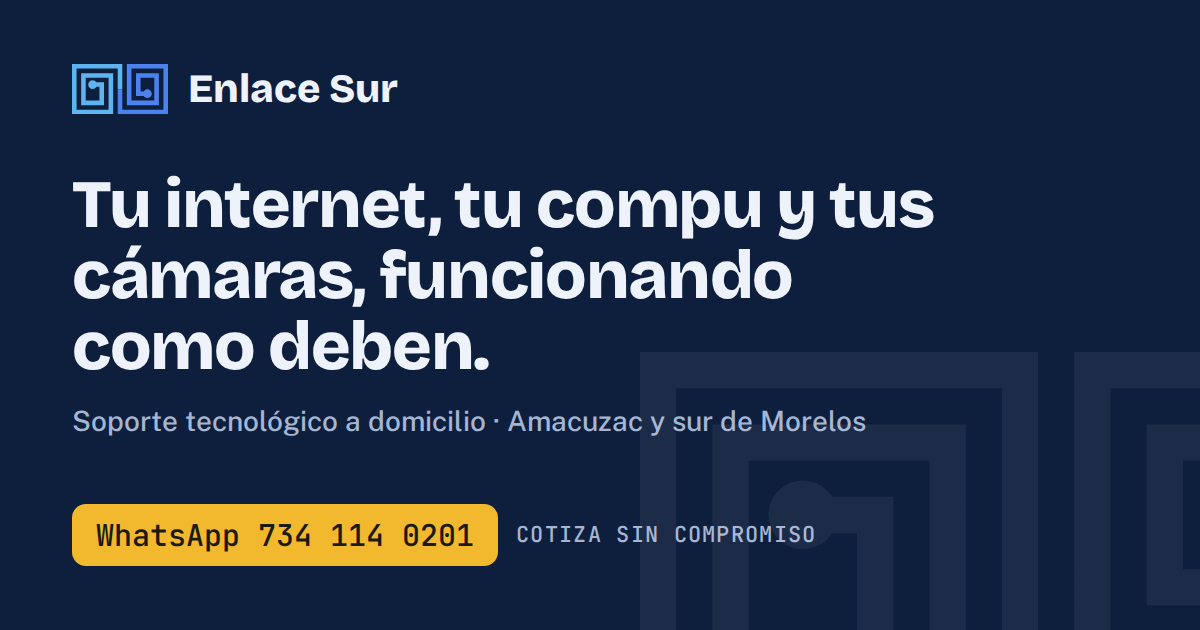
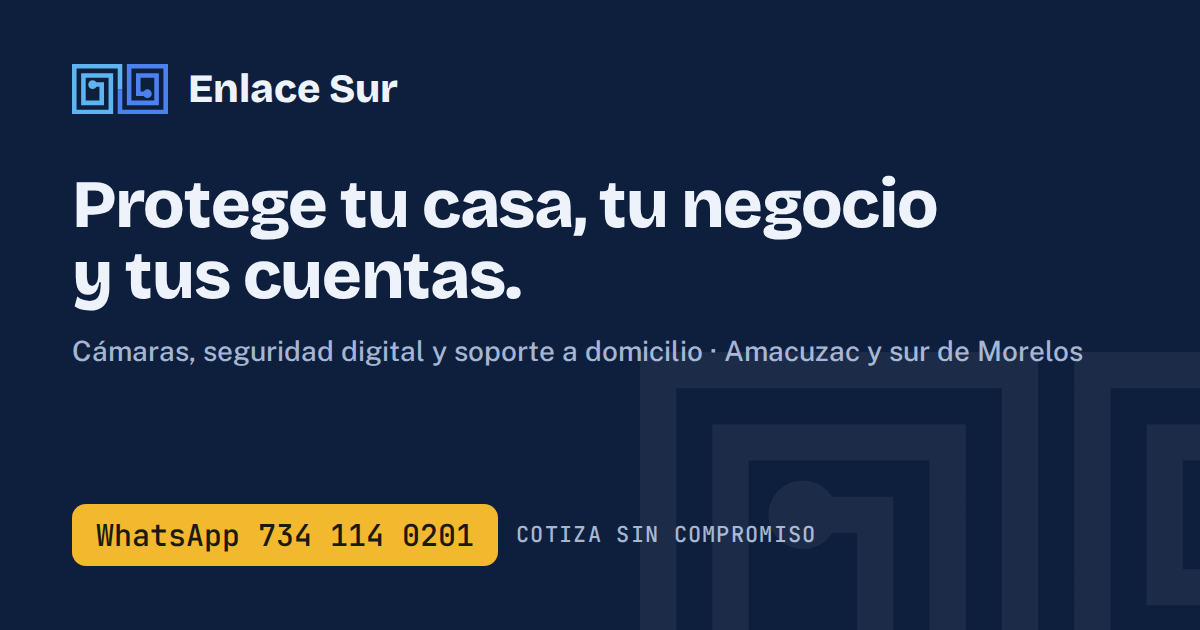
Add files via upload

Changed region(s): [[0.0617, 0.2714, 0.925, 0.6032], [0.0617, 0.6333, 0.74, 0.6937]]

diff --git a/index.html b/index.html
@@ -3,14 +3,14 @@
 <head>
 <meta charset="utf-8">
 <meta name="viewport" content="width=device-width, initial-scale=1, viewport-fit=cover">
-<title>Enlace Sur · Soporte tecnológico en Amacuzac</title>
-<meta name="description" content="Soporte tecnológico a domicilio en Amacuzac y el sur de Morelos: redes WiFi, computadoras, cámaras de seguridad y presencia digital para negocios.">
+<title>Enlace Sur · Seguridad y tecnología en Amacuzac</title>
+<meta name="description" content="Cámaras de seguridad, seguridad digital y soporte tecnológico a domicilio en Amacuzac y el sur de Morelos. Protege tu casa, tu negocio y tus cuentas.">
 <meta name="theme-color" content="#0E1F3D">
 <link rel="icon" href="favicon.svg" type="image/svg+xml">
 <link rel="apple-touch-icon" href="apple-touch-icon.png">
 <meta property="og:type" content="website">
-<meta property="og:title" content="Enlace Sur · Soporte tecnológico a domicilio">
-<meta property="og:description" content="WiFi, computadoras, cámaras y negocio digital en Amacuzac y el sur de Morelos. Cotiza sin compromiso por WhatsApp.">
+<meta property="og:title" content="Enlace Sur · Protege tu casa, tu negocio y tus cuentas">
+<meta property="og:description" content="Cámaras, seguridad digital y soporte tecnológico a domicilio en Amacuzac y el sur de Morelos. Cotiza sin compromiso por WhatsApp.">
 <meta property="og:image" content="https://abelprogram.github.io/enlace-sur/og.png">
 <meta property="og:url" content="https://abelprogram.github.io/enlace-sur/">
 <meta property="og:locale" content="es_MX">
@@ -122,6 +122,37 @@ section{padding-block:64px}
 .copy{font:500 13px/1 var(--body);background:transparent;color:var(--hero-ink);border:1px solid rgba(255,255,255,.3);border-radius:8px;padding:8px 12px;cursor:pointer}
 footer{padding-block:32px 48px;color:var(--muted);font-size:14px;display:flex;justify-content:space-between;gap:16px;flex-wrap:wrap}
 
+
+/* security checklist widget */
+.check{display:grid;grid-template-columns:1fr auto;gap:12px;align-items:center;padding:11px 0;border-top:1px solid rgba(255,255,255,.08);font-size:15px}
+.check:first-of-type{border-top:0}
+.st{font:500 12px/1 var(--mono);padding:6px 8px;border-radius:6px;white-space:nowrap}
+.st.bad{color:#F3A48F;background:rgba(224,122,95,.14)}
+.st.ok{color:#1B1A10;background:var(--signal)}
+.score{display:flex;align-items:baseline;gap:8px;margin-top:14px;padding-top:12px;border-top:1px solid rgba(255,255,255,.12)}
+.score b{font:800 28px/1 var(--display)}
+.score span{font-size:13px;color:var(--hero-muted)}
+/* services */
+.feat-grid{display:grid;grid-template-columns:repeat(2,1fr);gap:20px}
+.sub-grid{display:grid;grid-template-columns:repeat(3,1fr);gap:20px;margin-top:20px}
+.svc.feat{border-color:color-mix(in srgb,var(--accent) 35%,var(--line))}
+.svc .kicker{font:500 12px/1 var(--mono);letter-spacing:.06em;text-transform:uppercase;color:var(--accent)}
+.pkgs{display:grid;grid-template-columns:1fr 1fr;gap:10px;margin-top:6px}
+.pkg{background:var(--accent-soft);border-radius:10px;padding:12px}
+.pkg b{display:block;font-size:15px}
+.pkg span{font-size:13px;color:var(--muted)}
+.svc.small h3{font-size:18px}
+.svc.small p{font-size:15px}
+/* risks */
+.risks{display:grid;grid-template-columns:repeat(3,1fr);gap:20px}
+.risk{display:flex;flex-direction:column;gap:10px;padding-top:16px;border-top:2px solid var(--ink)}
+.risk h3{font-size:19px;font-weight:700}
+.risk p{color:var(--muted);font-size:15px}
+.risk .fix{color:var(--ink);font-size:15px;background:var(--accent-soft);border-radius:8px;padding:10px 12px}
+.risk .fix b{color:var(--accent)}
+.why{grid-template-columns:repeat(2,1fr)}
+@media (max-width:820px){.feat-grid,.sub-grid,.risks,.pkgs{grid-template-columns:1fr}.why{grid-template-columns:1fr}}
+
 @media (max-width:820px){
   .hero-grid,.cta{grid-template-columns:1fr}
   .services{grid-template-columns:1fr}
@@ -142,30 +173,28 @@ footer{padding-block:32px 48px;color:var(--muted);font-size:14px;display:flex;ju
         <svg viewBox="-10.5 -5.5 21 11" aria-hidden="true"><path d="M0 0 L0 -5 L-10 -5 L-10 5 L-2 5 L-2 -3 L-8 -3 L-8 3 L-4 3 L-4 -1 L-6 -1" style="stroke:var(--g1)" stroke-width="1.0" fill="none" stroke-linejoin="miter" stroke-linecap="butt"/><circle cx="-6" cy="-1" r="0.95" style="fill:var(--g1)"/><path d="M0 0 L0 5 L10 5 L10 -5 L2 -5 L2 3 L8 3 L8 -3 L4 -3 L4 1 L6 1" style="stroke:var(--g2)" stroke-width="1.0" fill="none" stroke-linejoin="miter" stroke-linecap="butt"/><circle cx="6" cy="1" r="0.95" style="fill:var(--g2)"/></svg>
         Enlace Sur
       </div>
-      <small>SOPORTE TECNOLÓGICO · AMACUZAC, MOR.</small>
+      <small>SEGURIDAD Y TECNOLOGÍA · AMACUZAC, MOR.</small>
     </div>
     <div class="hero-grid">
       <div>
         <p class="eyebrow">A domicilio · Casas y negocios</p>
-        <h1>Tu internet, tu compu y tus cámaras, funcionando como deben.</h1>
-        <p class="lead">Instalo y arreglo redes WiFi, computadoras y cámaras de seguridad en Amacuzac y el sur de Morelos. También ayudo a negocios a tener presencia digital. Te explico todo claro y sin tecnicismos.</p>
+        <h1>Protege tu casa, tu negocio y tus cuentas.</h1>
+        <p class="lead">Instalo cámaras de seguridad configuradas para que solo tú tengas acceso, y aseguro tu WhatsApp, tus contraseñas y tu red WiFi. También arreglo internet y computadoras. En Amacuzac y el sur de Morelos, con explicaciones claras y sin tecnicismos.</p>
         <div class="hero-actions">
           <a class="btn wa-link" href="#contacto"><svg viewBox="0 0 24 24" fill="currentColor" aria-hidden="true"><path d="M12 2a10 10 0 0 0-8.6 15.1L2 22l5-1.3A10 10 0 1 0 12 2Zm5.3 14.1c-.2.6-1.3 1.2-1.8 1.2-.5.1-1 .1-3.3-.8-2.8-1.1-4.5-3.9-4.7-4.1-.1-.2-1.1-1.5-1.1-2.9s.7-2 1-2.3c.2-.3.5-.3.7-.3h.5c.2 0 .4 0 .6.5l.9 2.1c.1.2.1.4 0 .6l-.4.6-.4.4c-.1.2-.3.3-.1.6.2.3.8 1.3 1.7 2.1 1.2 1 2.1 1.4 2.4 1.5.3.2.5.1.7-.1l.9-1.1c.2-.3.4-.2.7-.1l2 1c.3.1.5.2.5.3.1.2.1.7-.1 1.3Z"/></svg>Cotiza por WhatsApp</a>
           <span>Cotización sin compromiso</span>
         </div>
       </div>
-      <div class="meter" aria-label="Ejemplo de medición de señal WiFi por cuarto">
-        <h3><span>Señal WiFi por cuarto</span>
+      <div class="meter" aria-label="Ejemplo de chequeo de seguridad">
+        <h3><span>Chequeo de seguridad</span>
           <span class="tabs" role="group" aria-label="Comparar">
             <button type="button" id="t-antes" aria-pressed="true">Antes</button>
             <button type="button" id="t-despues" aria-pressed="false">Después</button>
           </span>
         </h3>
-        <div class="room"><span>Sala (módem)</span><span class="bars b4"><i></i><i></i><i></i><i></i></span><span class="dbm ok">−42 dBm</span></div>
-        <div class="room" data-before="b2|−71 dBm" data-after="b4|−52 dBm"><span>Recámara</span><span class="bars"><i></i><i></i><i></i><i></i></span><span class="dbm"></span></div>
-        <div class="room" data-before="b1|−84 dBm" data-after="b4|−58 dBm"><span>Cocina / fondo</span><span class="bars"><i></i><i></i><i></i><i></i></span><span class="dbm"></span></div>
-        <div class="room" data-before="b1|Sin señal" data-after="b4|−61 dBm"><span>Patio / local</span><span class="bars"><i></i><i></i><i></i><i></i></span><span class="dbm"></span></div>
-        <p class="note">Ejemplo ilustrativo: mido la señal en cada espacio antes y después de instalar.</p>
+        <div class="check" data-before="De fábrica" data-after="Cambiada"><span>Contraseña del módem</span><span class="st bad">De fábrica</span></div><div class="check" data-before="Contraseña genérica" data-after="Solo tú"><span>Acceso a tus cámaras</span><span class="st bad">Contraseña genérica</span></div><div class="check" data-before="Sin verificación en 2 pasos" data-after="Protegido"><span>WhatsApp</span><span class="st bad">Sin verificación en 2 pasos</span></div><div class="check" data-before="Clientes en tu red" data-after="Red separada"><span>WiFi del negocio</span><span class="st bad">Clientes en tu red</span></div><div class="check" data-before="Sin respaldo" data-after="Respaldo automático"><span>Fotos y documentos</span><span class="st bad">Sin respaldo</span></div>
+        <div class="score"><b id="score">0 de 5</b><span>puntos protegidos</span></div>
+        <p class="note">Ejemplo ilustrativo de lo que reviso en una casa o negocio típico.</p>
       </div>
     </div>
   </div>
@@ -178,43 +207,69 @@ footer{padding-block:32px 48px;color:var(--muted);font-size:14px;display:flex;ju
         <h2>Servicios</h2>
         <p>Cada trabajo empieza con un diagnóstico para saber qué necesitas de verdad, no qué venderte.</p>
       </div>
-      <div class="services">
-        <article class="svc">
+      <div class="feat-grid">
+        <article class="svc feat">
+          <div class="ic"><svg viewBox="0 0 24 24" fill="none" stroke="currentColor" stroke-width="2" stroke-linecap="round" stroke-linejoin="round"><path d="M3 7h13l4 3-4 3H3z"/><path d="M8 13v4H5"/><circle cx="7" cy="10" r="1.2" fill="currentColor"/></svg></div>
+          <span class="kicker">Seguridad física</span>
+          <h3>Cámaras de seguridad</h3>
+          <p>Ve tu casa o negocio desde el celular, estés donde estés. Las dejo protegidas para que nadie más pueda verlas.</p>
+          <ul><li>Instalación de cámaras WiFi</li><li>Acceso seguro desde tu celular</li><li>Grabación y alertas de movimiento</li><li>Revisión y protección de cámaras que ya tienes</li></ul>
+          <div class="pkgs">
+            <div class="pkg"><b>Casa vigilada</b><span>2 cámaras + configuración en tu celular</span></div>
+            <div class="pkg"><b>Negocio vigilado</b><span>3 a 4 cámaras + grabación + acceso para el encargado</span></div>
+          </div>
+        </article>
+        <article class="svc feat">
+          <div class="ic"><svg viewBox="0 0 24 24" fill="none" stroke="currentColor" stroke-width="2" stroke-linecap="round" stroke-linejoin="round"><path d="M12 3 4 6v6c0 4.5 3.4 8.3 8 9 4.6-.7 8-4.5 8-9V6z"/><path d="m9 12 2 2 4-4"/></svg></div>
+          <span class="kicker">Seguridad digital</span>
+          <h3>Chequeo de seguridad digital</h3>
+          <p>Una visita para cerrar las puertas que casi todos dejamos abiertas sin saberlo.</p>
+          <ul><li>WhatsApp con verificación en dos pasos</li><li>Contraseñas seguras en correo, Facebook y banco</li><li>Contraseña nueva en módem y cámaras</li><li>Control parental y respaldo de fotos</li></ul>
+          <div class="pkgs">
+            <div class="pkg"><b>¿Te hackearon una cuenta?</b><span>Te ayudo a recuperar WhatsApp, Facebook o correo</span></div>
+            <div class="pkg"><b>Para negocios</b><span>Red WiFi separada para clientes</span></div>
+          </div>
+        </article>
+      </div>
+      <div class="sub-grid">
+        <article class="svc small">
           <div class="ic"><svg viewBox="0 0 24 24" fill="none" stroke="currentColor" stroke-width="2" stroke-linecap="round"><path d="M2 9a15 15 0 0 1 20 0M5.5 12.5a10 10 0 0 1 13 0M9 16a5 5 0 0 1 6 0"/><circle cx="12" cy="19.5" r="1" fill="currentColor"/></svg></div>
           <h3>Redes e internet WiFi</h3>
-          <p>Para que el internet llegue a toda la casa o al negocio, no solo junto al módem.</p>
-          <ul><li>Instalación de repetidores y routers</li><li>Mejorar cobertura y velocidad</li><li>Cambiar nombre y contraseña del WiFi</li><li>Red separada para clientes del negocio</li></ul>
+          <p>Repetidores y routers para que la señal llegue a toda la casa o al negocio.</p>
         </article>
-        <article class="svc">
+        <article class="svc small">
           <div class="ic"><svg viewBox="0 0 24 24" fill="none" stroke="currentColor" stroke-width="2" stroke-linecap="round" stroke-linejoin="round"><rect x="3" y="4" width="18" height="12" rx="2"/><path d="M8 20h8M12 16v4"/></svg></div>
           <h3>Soporte de computadoras</h3>
-          <p>Cuando la compu está lenta, no prende bien o perdiste el acceso a algo.</p>
-          <ul><li>Limpieza, formateo e instalación de programas</li><li>Computadora lenta o con virus</li><li>Recuperar contraseñas y cuentas</li><li>Respaldo de fotos y documentos</li></ul>
+          <p>Lentitud, virus, formateo, programas y respaldo de tus archivos.</p>
         </article>
-        <article class="svc">
-          <div class="ic"><svg viewBox="0 0 24 24" fill="none" stroke="currentColor" stroke-width="2" stroke-linecap="round" stroke-linejoin="round"><path d="M3 7h13l4 3-4 3H3z"/><path d="M8 13v4H5"/><circle cx="7" cy="10" r="1.2" fill="currentColor"/></svg></div>
-          <h3>Cámaras de seguridad</h3>
-          <p>Ve tu casa o negocio desde el celular, estés donde estés.</p>
-          <ul><li>Instalación de cámaras WiFi</li><li>Configuración en tu celular</li><li>Grabación y alertas de movimiento</li><li>Revisión de cámaras que ya tienes</li></ul>
-        </article>
-        <article class="svc">
+        <article class="svc small">
           <div class="ic"><svg viewBox="0 0 24 24" fill="none" stroke="currentColor" stroke-width="2" stroke-linecap="round" stroke-linejoin="round"><path d="M12 21s-7-6.2-7-11a7 7 0 0 1 14 0c0 4.8-7 11-7 11z"/><circle cx="12" cy="10" r="2.5"/></svg></div>
           <h3>Tu negocio en digital</h3>
-          <p>Para que te encuentren, te escriban y te sea más fácil atender.</p>
-          <ul><li>Aparecer en Google Maps</li><li>WhatsApp Business con catálogo y respuestas</li><li>Página web sencilla para tu negocio</li><li>Automatizar tareas repetitivas</li></ul>
+          <p>Google Maps, WhatsApp Business con catálogo y página web sencilla.</p>
         </article>
       </div>
     </div>
   </section>
 
-  <section style="padding-top:0">
+  <section class="band">
+    <div class="wrap">
+      <div class="sec-head"><h2>¿Sabías que…?</h2><p>Tres riesgos comunes en casas y negocios, y cómo se evitan.</p></div>
+      <div class="risks">
+        <div class="risk"><h3>Muchas cámaras y módems vienen con contraseña de fábrica</h3><p>Esas contraseñas suelen ser genéricas y fáciles de encontrar en internet. Si no se cambian, alguien más podría entrar a ver lo que tú ves.</p><p class="fix"><b>Se evita:</b> cambiando las contraseñas al instalar y actualizando el equipo.</p></div>
+        <div class="risk"><h3>Te pueden robar el WhatsApp con un código</h3><p>Alguien se hace pasar por un conocido y te pide "el código que te llegó por mensaje". Con eso se queda con tu cuenta y pide dinero a tus contactos.</p><p class="fix"><b>Se evita:</b> activando la verificación en dos pasos y nunca compartiendo ese código.</p></div>
+        <div class="risk"><h3>En el WiFi del negocio, tus clientes comparten red con tus equipos</h3><p>Si todos usan la misma red, las cámaras o la computadora de caja quedan al alcance de cualquiera conectado.</p><p class="fix"><b>Se evita:</b> con una red WiFi separada solo para clientes.</p></div>
+      </div>
+    </div>
+  </section>
+
+  <section>
     <div class="wrap">
       <div class="sec-head"><h2>Cómo trabajo</h2><p>Sin sorpresas: sabes el precio antes de que empiece.</p></div>
       <div class="steps">
-        <div class="step"><b>01</b><h3>Me escribes</h3><p>Cuéntame por WhatsApp qué pasa. Si puedes, manda una foto o video.</p></div>
-        <div class="step"><b>02</b><h3>Diagnóstico y precio</h3><p>Reviso el problema y te doy una cotización clara antes de empezar.</p></div>
-        <div class="step"><b>03</b><h3>Lo resuelvo</h3><p>Voy a tu casa o negocio en el día acordado y dejo todo funcionando.</p></div>
-        <div class="step"><b>04</b><h3>Te explico</h3><p>Te enseño cómo quedó y qué hacer si algo vuelve a fallar.</p></div>
+        <div class="step"><b>01</b><h3>Me escribes</h3><p>Cuéntame por WhatsApp qué necesitas. Si puedes, manda una foto o video.</p></div>
+        <div class="step"><b>02</b><h3>Diagnóstico y precio</h3><p>Reviso tu caso y te doy una cotización clara antes de empezar.</p></div>
+        <div class="step"><b>03</b><h3>Lo resuelvo</h3><p>Voy a tu casa o negocio en el día acordado y dejo todo funcionando y protegido.</p></div>
+        <div class="step"><b>04</b><h3>Te entrego el control</h3><p>Te explico cómo quedó y tú cambias las contraseñas finales. Solo tú tienes acceso.</p></div>
       </div>
     </div>
   </section>
@@ -223,9 +278,10 @@ footer{padding-block:32px 48px;color:var(--muted);font-size:14px;display:flex;ju
     <div class="wrap">
       <div class="sec-head"><h2>¿Por qué conmigo?</h2></div>
       <div class="why">
-        <div><h3>Formación en informática</h3><p>Técnico y licenciatura en informática, y experiencia resolviendo problemas reales de redes y equipos.</p></div>
+        <div><h3>Tus contraseñas son tuyas</h3><p>No guardo copias de tus accesos. Al terminar, tú cambias las contraseñas y las cámaras quedan solo en tu celular.</p></div>
+        <div><h3>Formación en informática y redes</h3><p>Estudié informática y me he preparado en redes y seguridad, con experiencia resolviendo problemas reales de equipos y conexiones.</p></div>
         <div><h3>Soy de aquí</h3><p>Vivo en Amacuzac. No tienes que esperar a alguien de Cuernavaca ni pagar traslados largos.</p></div>
-        <div><h3>Hablo claro</h3><p>Te digo qué tiene tu equipo y qué conviene hacer. Si algo no vale la pena arreglar, también te lo digo.</p></div>
+        <div><h3>Hablo claro</h3><p>Te digo qué conviene y qué no. Si algo no vale la pena, también te lo digo.</p></div>
       </div>
     </div>
   </section>
@@ -235,7 +291,9 @@ footer{padding-block:32px 48px;color:var(--muted);font-size:14px;display:flex;ju
       <div class="sec-head"><h2>Preguntas frecuentes</h2></div>
       <div class="faq">
         <details><summary>¿Cuánto cuesta?</summary><p>Depende del trabajo. Escríbeme con lo que necesitas y te doy un precio antes de empezar, sin compromiso.</p></details>
-        <details><summary>¿Tengo que comprar el equipo yo?</summary><p>Como prefieras. Te puedo recomendar qué comprar según tu casa o negocio, o conseguirlo yo e incluirlo en la cotización.</p></details>
+        <details><summary>¿Las cámaras evitan los robos?</summary><p>Ninguna cámara garantiza que no pase nada. Lo que sí hacen es disuadir, avisarte en el momento y dejar evidencia. Te recomiendo dónde colocarlas para que sirvan de verdad.</p></details>
+        <details><summary>¿Tú puedes ver mis cámaras?</summary><p>No. Configuro todo y al final tú pones tu propia contraseña. Las cámaras quedan solo en tu celular y en el de quien tú decidas.</p></details>
+        <details><summary>¿Tengo que comprar el equipo yo?</summary><p>Como prefieras. Te recomiendo qué comprar según tu casa o negocio, o lo consigo yo y lo incluyo en la cotización.</p></details>
         <details><summary>¿Hasta dónde vas?</summary><p>Amacuzac y los alrededores del sur de Morelos. Si estás más lejos, pregúntame y lo vemos.</p></details>
         <details><summary>¿Atiendes negocios o solo casas?</summary><p>Ambos. Tiendas, consultorios, restaurantes y oficinas pequeñas también.</p></details>
       </div>
@@ -246,8 +304,8 @@ footer{padding-block:32px 48px;color:var(--muted);font-size:14px;display:flex;ju
     <div class="wrap">
       <div class="cta">
         <div>
-          <h2>¿Qué necesitas resolver?</h2>
-          <p>Mándame un mensaje por WhatsApp con lo que pasa y te doy una cotización sin compromiso.</p>
+          <h2>¿Qué quieres proteger?</h2>
+          <p>Mándame un mensaje por WhatsApp y te doy una cotización sin compromiso.</p>
           <div class="num"><output id="wa-num">734 114 0201</output><button class="copy" id="copy-btn" type="button">Copiar número</button></div>
         </div>
         <a class="btn wa-link" href="#contacto">Abrir WhatsApp</a>
@@ -256,39 +314,34 @@ footer{padding-block:32px 48px;color:var(--muted);font-size:14px;display:flex;ju
   </section>
 </main>
 
-<footer class="wrap"><span>Enlace Sur · Soporte tecnológico</span><span>Amacuzac, Morelos</span></footer>
+<footer class="wrap"><span>Enlace Sur · Seguridad y soporte tecnológico</span><span>Amacuzac, Morelos</span></footer>
 
 <script>
-// Pon aquí el número (10 dígitos). Ej: '7771234567'
 const WHATSAPP = '7341140201';
 const MSG = 'Hola, vi tu página de Enlace Sur y quiero una cotización.';
 (function(){
-  if (WHATSAPP) {
-    const pretty = WHATSAPP.replace(/(\d{3})(\d{3})(\d{4})/, '$1 $2 $3');
-    document.getElementById('wa-num').textContent = pretty;
-    document.querySelectorAll('.wa-link').forEach(a => {
-      a.href = 'https://wa.me/52' + WHATSAPP + '?text=' + encodeURIComponent(MSG);
-      a.target = '_blank'; a.rel = 'noopener';
-    });
-  }
+  const pretty = WHATSAPP.replace(/(\d{3})(\d{3})(\d{4})/, '$1 $2 $3');
+  document.getElementById('wa-num').textContent = pretty;
+  document.querySelectorAll('.wa-link').forEach(a => {
+    a.href = 'https://wa.me/52' + WHATSAPP + '?text=' + encodeURIComponent(MSG);
+    a.target = '_blank'; a.rel = 'noopener';
+  });
   const btn = document.getElementById('copy-btn');
+  function selectNum(){ const r = document.createRange(); r.selectNodeContents(document.getElementById('wa-num')); const s = getSelection(); s.removeAllRanges(); s.addRange(r); }
   btn.addEventListener('click', () => {
     const t = document.getElementById('wa-num').textContent;
     const done = () => { btn.textContent = 'Copiado'; setTimeout(() => btn.textContent = 'Copiar número', 1800); };
-    try {
-      navigator.clipboard.writeText(t).then(done).catch(() => selectNum());
-    } catch (e) { selectNum(); }
+    try { navigator.clipboard.writeText(t).then(done).catch(selectNum); } catch (e) { selectNum(); }
   });
-  function selectNum(){ const r = document.createRange(); r.selectNodeContents(document.getElementById('wa-num')); const s = getSelection(); s.removeAllRanges(); s.addRange(r); }
-
-  const rooms = [...document.querySelectorAll('.room[data-before]')];
+  const rows = [...document.querySelectorAll('.check')];
   const bA = document.getElementById('t-antes'), bD = document.getElementById('t-despues');
   function show(which){
-    rooms.forEach(r => {
-      const [cls, val] = r.dataset[which].split('|');
-      r.querySelector('.bars').className = 'bars ' + cls;
-      const d = r.querySelector('.dbm'); d.textContent = val; d.classList.toggle('ok', cls === 'b4');
+    rows.forEach(r => {
+      const st = r.querySelector('.st');
+      st.textContent = r.dataset[which];
+      st.className = 'st ' + (which === 'after' ? 'ok' : 'bad');
     });
+    document.getElementById('score').textContent = (which === 'after' ? rows.length : 0) + ' de ' + rows.length;
     bA.setAttribute('aria-pressed', which === 'before'); bD.setAttribute('aria-pressed', which === 'after');
   }
   bA.onclick = () => show('before'); bD.onclick = () => show('after');
